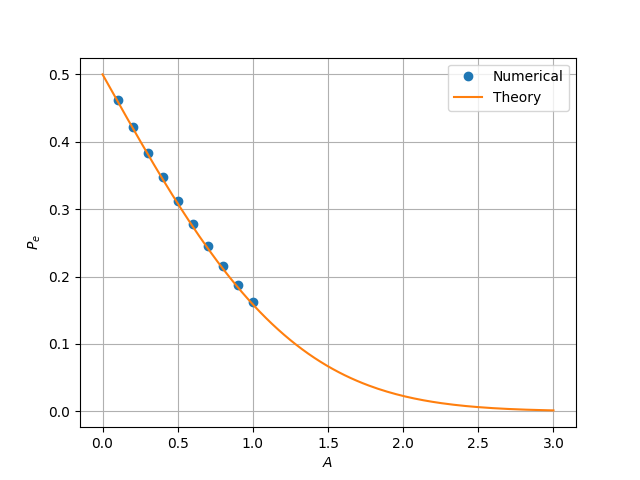
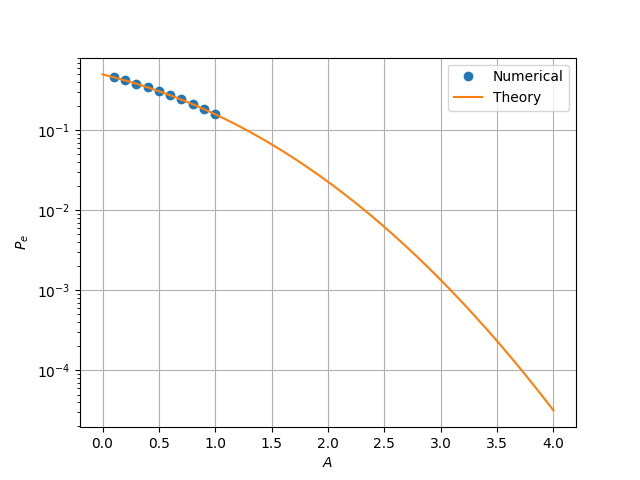
Added semilog plot

diff --git a/RandomNumbers/main2.tex b/RandomNumbers/main2.tex
@@ -948,7 +948,7 @@ We have:
     &= \int_{A} ^{\infty} \frac{1}{\sqrt{2\pi}} e^{\frac{-x^2}{2}} dx \\
     &= Q_N(A)
 \end{align}
-where $Q\_N$ is the $Q-$function of the normal distribution.
+where $Q_N$ is the $Q-$function of the normal distribution.
 
 Similarly, 
 \begin{align}
@@ -1007,7 +1007,7 @@ P_e &= P_{e|0} \pr{X = 1} + P_{e|1} \pr{X = -1} \\
 &= \frac{1}{2}(Q_N(A - \delta) + Q_N(A + \delta)) \\
 \end{align}
 
-To minimise $P\_e$, we differentiate the above equation wrt $\delta$:
+To minimise $P_e$, we differentiate the above equation wrt $\delta$:
 
 \begin{align}
 0 &= \frac{d}{d\delta} \left(\frac{1}{2}(Q_N(A - \delta) + Q_N(A + \delta))\right) \\
@@ -1186,21 +1186,21 @@ Let
 
 Then, 
 \begin{align}
-    f_{X_1,X_2}(x_1,x_2) &= f_{X_1}(x_1)f_{X_2}(x_2) \\
+    p_{X_1,X_2}(x_1,x_2) &= p_{X_1}(x_1)p_{X_2}(x_2) \\
     &= \frac{1}{2\pi} e^{\frac{-(x_1^2+x_2^2)}{2}} \\
     &= \frac{1}{2\pi} e^{\frac{-r^2}{2}}
 \end{align}
 
 Now, since 
 \begin{align}
-    f_{r, \theta}(r, \theta) &= |J|f_{X_1, X_2}(x_1, x_2)      \\   
+    p_{r, \theta}(r, \theta) &= |J|p_{X_1, X_2}(x_1, x_2)      \\   
 \intertext{we have:}     
-f_{R, \theta}(r, \theta) & = \frac{r}{2\pi} e^{-\frac{r^2}{2}}                                                    
+p_{R, \theta}(r, \theta) & = \frac{r}{2\pi} e^{-\frac{r^2}{2}}                                                    
 \end{align}
 
 Therefore, 
 \begin{align}
-    f_R(r)                   & = \int_0^{2\pi} f_{R, \theta}(r, \theta)                                                     \\
+    p_R(r)                   & = \int_0^{2\pi} p_{R, \theta}(r, \theta)                                                     \\
     & = \int_0^{2\pi} \frac{r}{2\pi} e^{-\frac{r^2}{2}} d\theta                                    \\
     & = r e^{-\frac{r^2}{2}}                                                                       \\
 \end{align}

diff --git a/RandomNumbers/codes/cdf_plot.py b/RandomNumbers/codes/cdf_plot.py
@@ -15,7 +15,7 @@ import functions as fp
 maxrange=30
 maxlim=4.0
 x = np.linspace(-maxlim,maxlim,maxrange)#points on the x axis
-xx = np.linspace(-maxlim,maxlim,maxrange*5) #more points
+xx = np.linspace(0,maxlim,maxrange*5) #more points
 simlen = int(1e6) #number of samples
 err = [] #declaring probability list
 #randvar = np.random.normal(0,1,simlen)
@@ -44,20 +44,20 @@ for i in range(1,11):
 
 
 
-# plt.plot(np.array(a), np.loadtxt('proberr_graph.dat',dtype='double'),'o') #plotting proberr graph
-# plt.plot(xx,vec_q_gau_cdf(xx))
+plt.semilogy(np.array(a), np.loadtxt('proberr_graph.dat',dtype='double'),'o') #plotting proberr graph
+plt.semilogy(xx,vec_q_gau_cdf(xx))
 	
 
 
 
 
-plt.plot(x.T, err, 'o')#plotting the CDF
+# plt.plot(x.T, err, 'o')#plotting the CDF
 # plt.plot(xx,vec_unit_cdf(xx)) #plotting theoretical unit CDF
 # plt.plot(xx,vec_gau_cdf(xx)) #plotting theoretical gaussian CDF
 # plt.plot(xx,vec_log_cdf(xx)) #plotting theoretical logarithmic CDF
 # plt.plot(xx, vec_tri_cdf(xx))
 # plt.plot(xx, vec_chi_cdf(xx))
-plt.plot(xx, vec_ray_cdf(xx))
+# plt.plot(xx, vec_ray_cdf(xx))
 plt.grid() #creating the grid
 plt.xlabel('$A$')
 plt.ylabel('$P_e$')

diff --git a/RandomNumbers/codes/pdf_plot.py b/RandomNumbers/codes/pdf_plot.py
@@ -21,7 +21,7 @@ pdf = [] #declaring pdf list
 h = 2*maxlim/(maxrange-1);
 #randvar = np.random.normal(0,1,simlen)
 #randvar = np.loadtxt('uni.dat',dtype='double')
-randvar = np.loadtxt('ray.dat',dtype='double')
+randvar = np.loadtxt('proberr_graph.dat',dtype='double')
 
 for i in range(0,maxrange):
 	err_ind = np.nonzero(randvar < x[i]) #checking probability condition
@@ -41,7 +41,11 @@ vec_chi_pdf = np.vectorize(fp.chi_pdf, otypes=[np.float])
 vec_ray_pdf = np.vectorize(fp.ray_pdf, otypes=[np.float])
 
 
+
+
 # plt.plot(np.array(range(0,1000000)),randvar, 'o') #Plotting noise (Y)
+
+
 
 
 plt.plot(x[0:(maxrange-1)].T,pdf, 'o')
